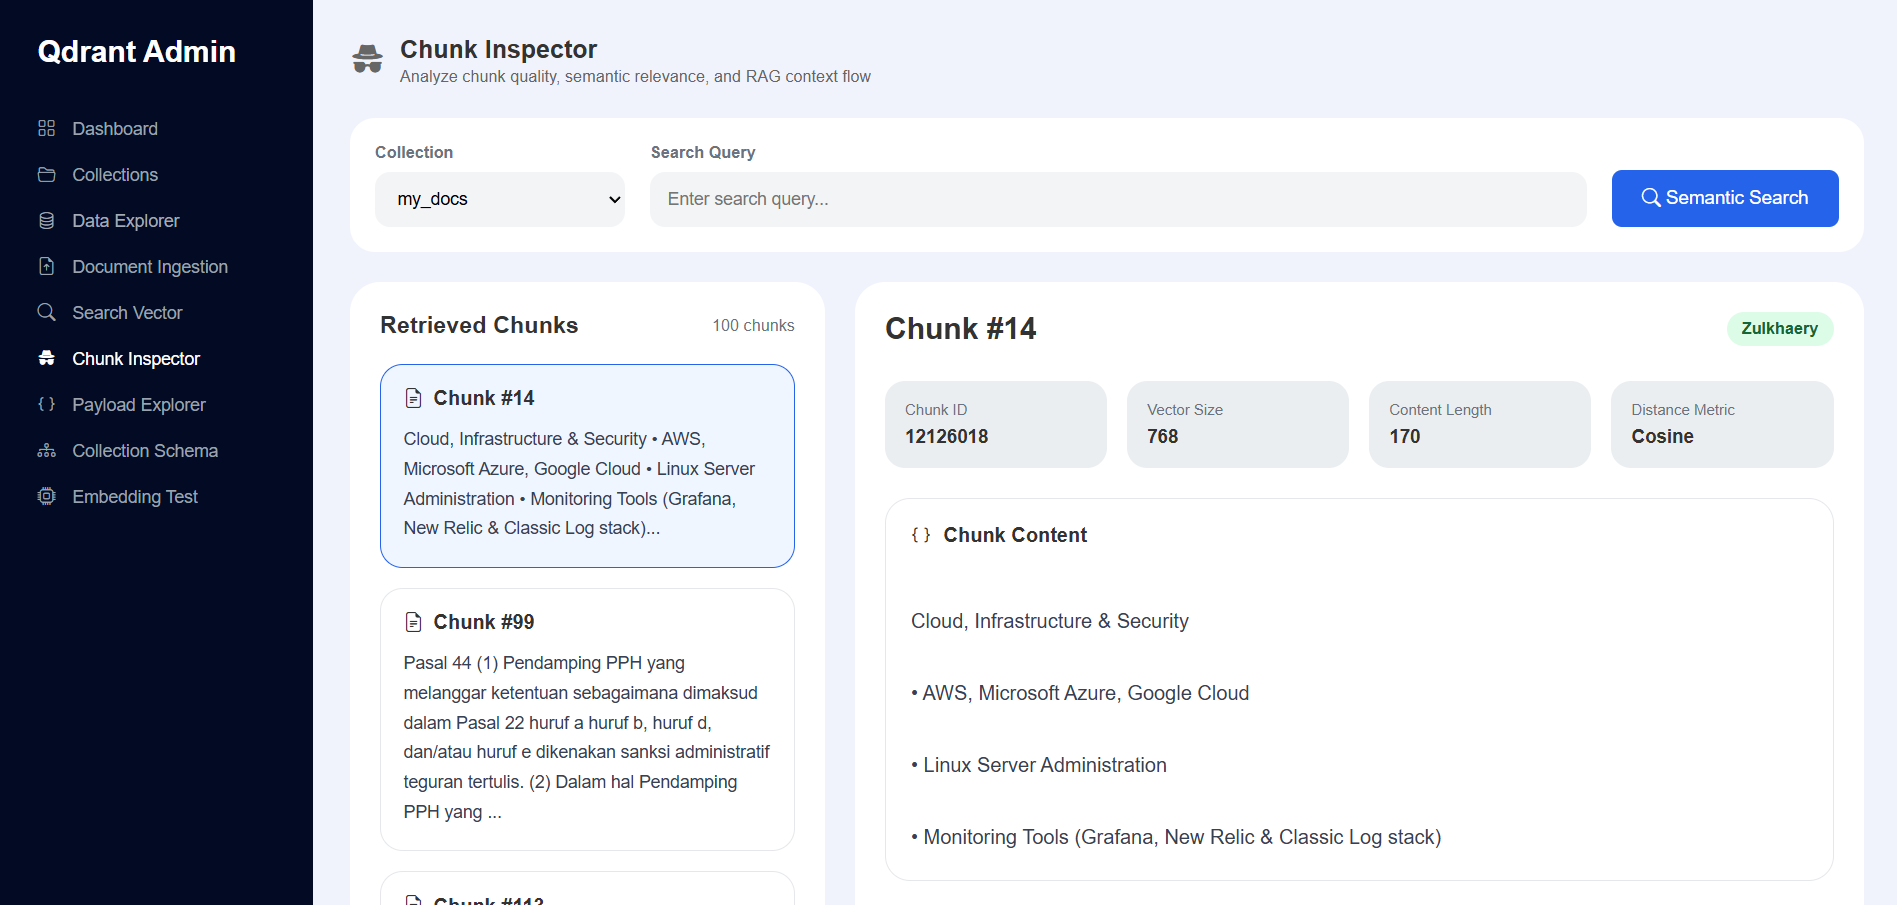
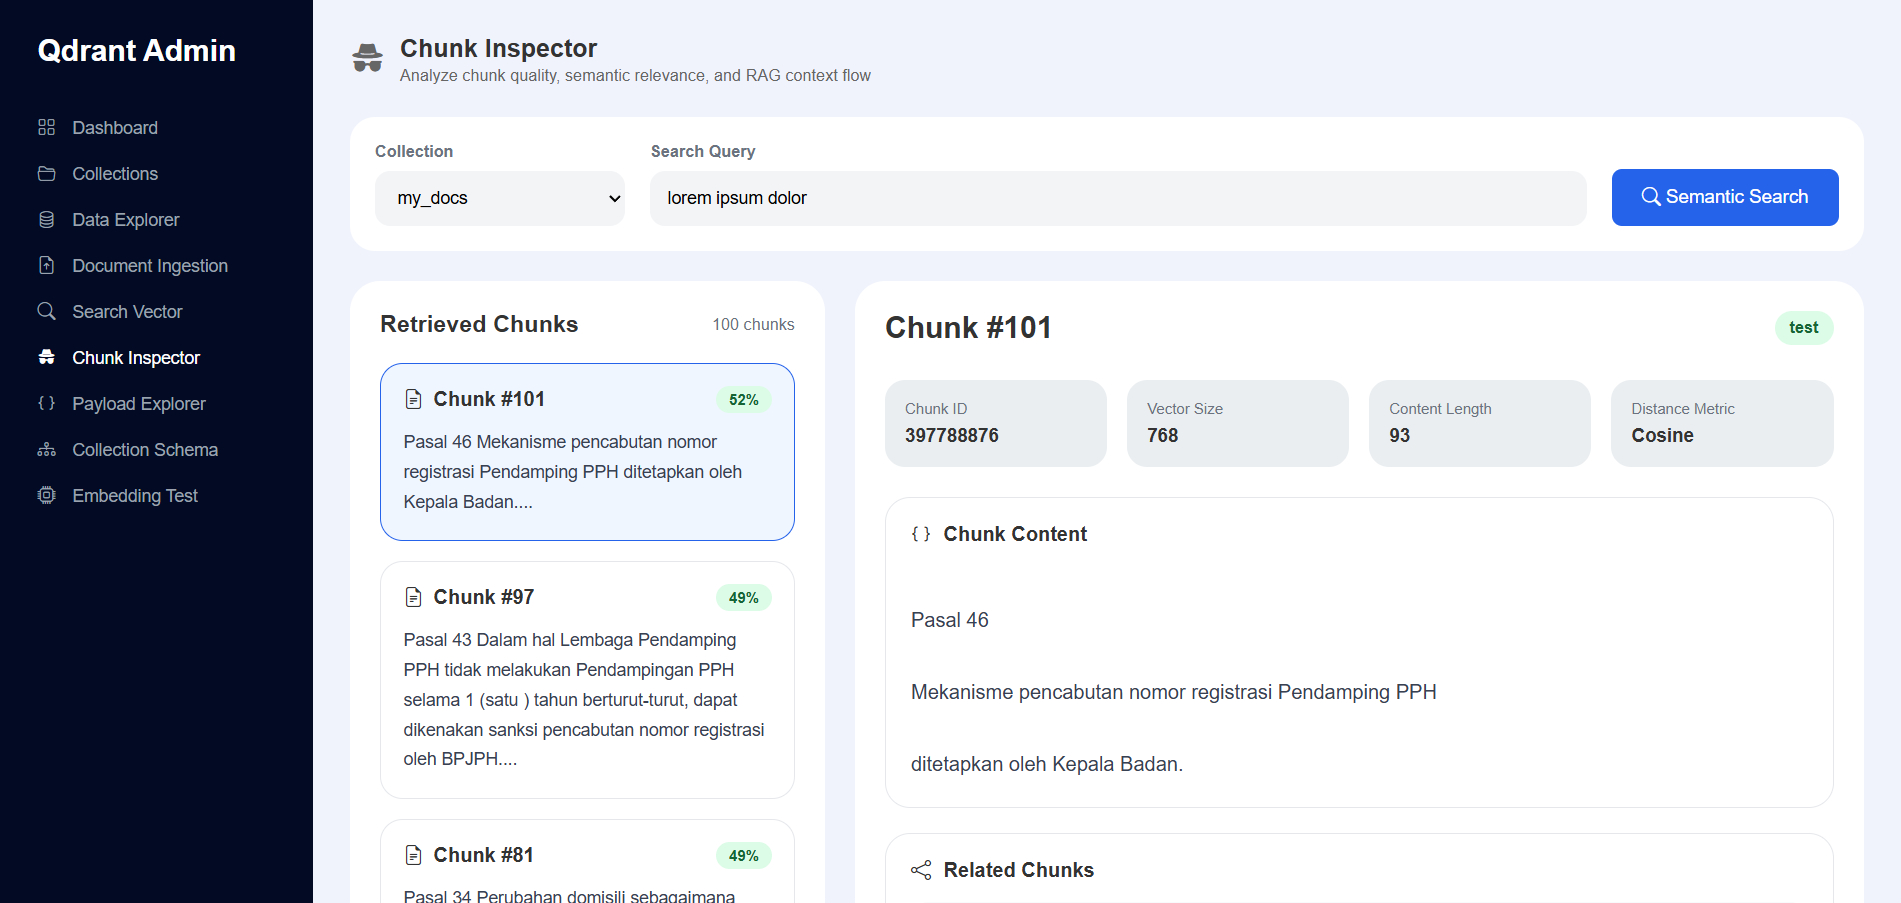
add screenshot

diff --git a/README.md b/README.md
@@ -1,16 +1,5 @@
 # Qdrant Admin By Zulkhaery
 
-<p align="center">
-  <img src="public/images/collections.png" width="45%">
-   &nbsp;&nbsp;&nbsp;&nbsp;
-  <img src="public/images/chunk-inspector.png" width="45%">
-</p>
-<p align="center">
-  <img src="public/images/schema.png" width="45%">
-   &nbsp;&nbsp;&nbsp;&nbsp;
-  <img src="public/images/dashboard.png" width="45%">
-</p>
-
 Lightweight Qdrant Admin Panel built with PHP. 
 Designed for local AI, RAG experimentation, and lightweight deployments.
 
@@ -172,3 +161,22 @@ Run Qdrant with Docker:
 ```bash
 docker run -p 6333:6333 qdrant/qdrant
 ```
+
+
+## Screenshots
+
+<p align="center">
+  <img src="public/images/dashboard.png" width="45%">
+  &nbsp;&nbsp;
+  <img src="public/images/chunk-inspector.png" width="45%">
+</p>
+<p align="center">
+  <img src="public/images/collections.png" width="45%">
+  &nbsp;&nbsp;
+ <img src="public/images/schema.png" width="45%">
+</p>
+<p align="center">
+  <img src="public/images/ingest.png" width="45%">
+  &nbsp;&nbsp;
+ <img src="public/images/payload-explorer.png" width="45%">
+</p>
